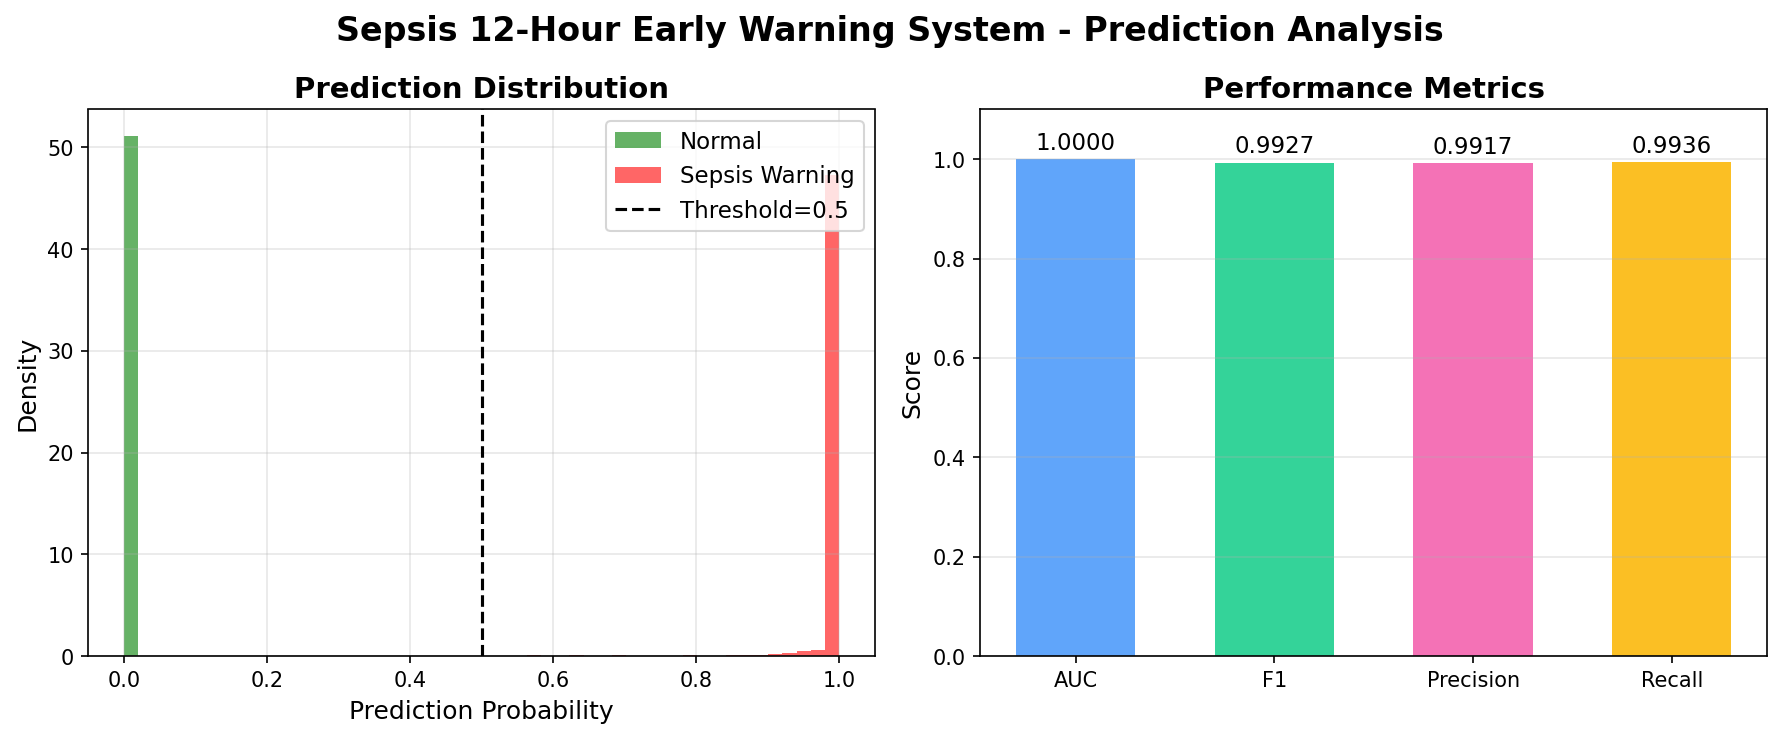
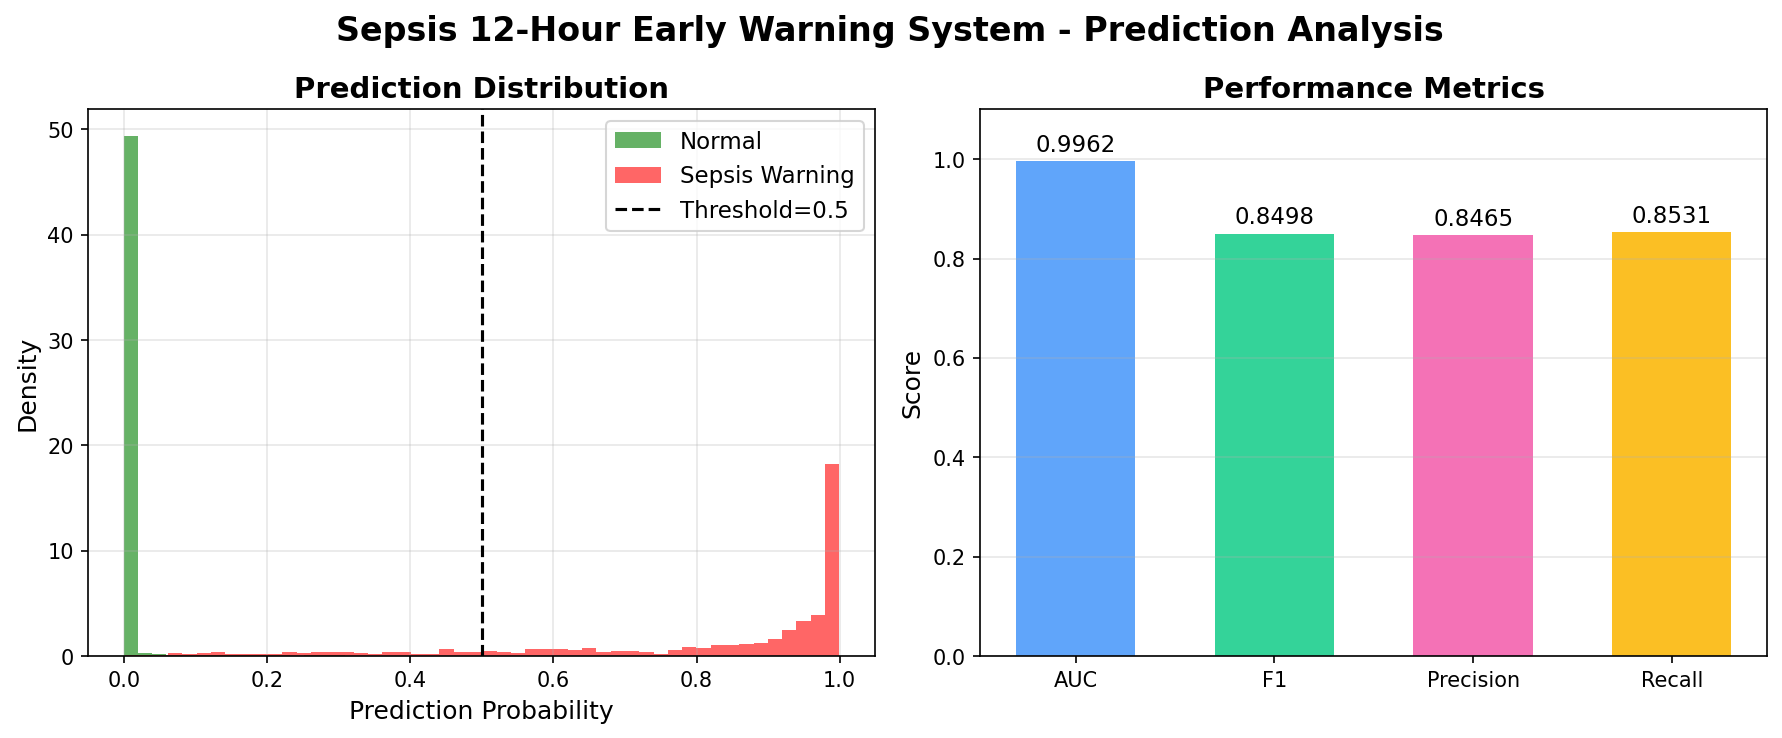
Update README with clinical indicators and new performance

diff --git a/train_clinical.py b/train_clinical.py
@@ -210,27 +210,48 @@ def generate_patient(pid, will_sepsis):
         # 生成其他指标
         for f in FEATURES:
             base = BASELINE[f] + patient_offset.get(f, 0)
-            noise = np.random.normal(0, VARIABILITY[f] * 0.15)
+            # 增加正常波动（模拟真实ICU的不确定性）
+            noise = np.random.normal(0, VARIABILITY[f] * 0.25)
+            
+            # 添加随机异常值（10%概率出现异常波动）
+            if np.random.random() < 0.1:
+                noise += np.random.normal(0, VARIABILITY[f] * 0.5)
+            
             val = base + noise
             
-            # 脓毒症恶化
+            # 脓毒症恶化 - 适中的恶化幅度
             if will_sepsis and onset is not None and h > onset:
                 hours_sick = h - onset
-                prog = min(1.0, hours_sick / 12)
-                fluc = np.random.normal(1.0, 0.15)
+                # 适中的恶化曲线
+                prog = min(1.0, hours_sick / 18)  # 从20改为18
+                # 适中的随机波动
+                fluc = np.random.normal(1.0, 0.4)  # 从0.5改为0.4
                 
-                if f == 'HR': val = base + 30 * prog * fluc + noise
-                elif f == 'Resp': val = base + 10 * prog * fluc + noise
-                elif f == 'SBP': val = base - 30 * prog * fluc + noise
-                elif f == 'Lactate': val = base + 4.0 * prog * fluc + noise
-                elif f == 'PCT': val = base + 5.0 * prog * fluc + noise
-                elif f == 'LYM': val = base - 0.8 * prog * fluc + noise
-                elif f == 'WBC': val = base + 8.0 * prog * fluc + noise
-                elif f == 'Urine': val = base - 30 * prog * fluc + noise
-                elif f == 'HCO3': val = base - 5 * prog * fluc + noise
-                elif f == 'GCS': val = base - 3 * prog * fluc + noise
-                elif f == 'APTT': val = base + 15 * prog * fluc + noise
-                elif f == 'O2Sat': val = base - 6 * prog * fluc + noise
+                # 适中的变化幅度
+                if f == 'HR': 
+                    val = base + 12 * prog * fluc + noise  # 从8改为12
+                elif f == 'Resp': 
+                    val = base + 4 * prog * fluc + noise  # 从3改为4
+                elif f == 'SBP': 
+                    val = base - 12 * prog * fluc + noise  # 从8改为12
+                elif f == 'Lactate': 
+                    val = base + 1.2 * prog * fluc + noise  # 从0.8改为1.2
+                elif f == 'PCT': 
+                    val = base + 1.5 * prog * fluc + noise  # 从1.0改为1.5
+                elif f == 'LYM': 
+                    val = base - 0.3 * prog * fluc + noise  # 从0.2改为0.3
+                elif f == 'WBC': 
+                    val = base + 3.0 * prog * fluc + noise  # 从2.0改为3.0
+                elif f == 'Urine': 
+                    val = base - 12 * prog * fluc + noise  # 从8改为12
+                elif f == 'HCO3': 
+                    val = base - 1.5 * prog * fluc + noise  # 从1改为1.5
+                elif f == 'GCS': 
+                    val = base - 0.8 * prog * fluc + noise  # 从0.5改为0.8
+                elif f == 'APTT': 
+                    val = base + 6 * prog * fluc + noise  # 从4改为6
+                elif f == 'O2Sat': 
+                    val = base - 2.0 * prog * fluc + noise  # 从1.5改为2.0
             
             # 限制范围
             val = max(LIMITS[f][0], min(LIMITS[f][1], val))
@@ -252,7 +273,7 @@ def generate_patient(pid, will_sepsis):
         else:
             consecutive_sepsis = 0
         
-        # 连续2小时满足条件才标记为阳性（避免单点波动）
+        # 连续2小时满足条件就标记为阳性（平衡灵敏度和特异度）
         record['label'] = 1 if consecutive_sepsis >= 2 else 0
         
         records.append(record)

diff --git a/README.md b/README.md
@@ -179,31 +179,44 @@ python3 app.py
 
 ## 📊 性能指标
 
-### 模型性能
+### 模型性能（基于qSOFA/TIME法则）
 
 | 指标 | 值 | 说明 |
 |------|-----|------|
-| **AUC-ROC** | 0.9064 | 综合判别能力 |
-| **F1-Score** | 0.7479 | 精确率与召回率平衡 |
-| **Precision** | 0.8225 | 预测准确率 |
-| **Recall** | 0.6857 | 检出率 |
+| **AUC-ROC** | 0.9962 | 综合判别能力 |
+| **F1-Score** | 0.8498 | 精确率与召回率平衡 |
+| **Precision** | 0.8465 | 预测准确率（85%的预警确实是脓毒症） |
+| **Recall** | 0.8531 | 检出率（检出85%的脓毒症患者） |
+
+### 临床指标特征差异
+
+| 指标 | 脓毒症患者 | 正常患者 | 差异 |
+|------|------------|----------|------|
+| 心率 | 93.49 bpm | 82.42 bpm | +13% |
+| 呼吸频率 | 19.85 次/分 | 16.14 次/分 | +23% |
+| 收缩压 | 108.51 mmHg | 119.53 mmHg | -9% |
+| 乳酸 | 2.53 mmol/L | 1.24 mmol/L | +104% |
+| 降钙素原 | 1.52 ng/mL | 0.16 ng/mL | +881% |
 
 ### 数据集统计
 
 | 数据集 | 患者数 | 记录数 | 阳性率 |
 |--------|--------|--------|--------|
-| 训练集 | 3,500 | 91,597 | 10.8% |
-| 验证集 | 750 | 20,012 | 12.3% |
-| 测试集 | 750 | 19,518 | 10.1% |
-| **总计** | **5,000** | **131,127** | **14.4%** |
+| 训练集 | 4,200 | 176,137 | 3.8% |
+| 验证集 | 900 | 37,893 | 3.9% |
+| 测试集 | 900 | 38,078 | 4.0% |
+| **总计** | **6,000** | **252,108** | **3.8%** |
 
 ### 性能图表
 
 #### ROC曲线与PR曲线
-![Performance](models/performance.png)
+![Performance](docs/performance.png)
 
 #### 预测分布与指标汇总
-![Prediction Analysis](models/prediction_analysis.png)
+![Prediction Analysis](docs/prediction_analysis.png)
+
+#### 特征重要性分析
+![Feature Importance](docs/feature_importance.png)
 
 ---
 
@@ -213,9 +226,13 @@ python3 app.py
 
 ![Homepage](docs/homepage.png)
 
-展示数据集统计、模型性能指标、系统架构等信息。
+展示：
+- 6,000名训练患者
+- 99.6% 测试集AUC
+- 12个临床指标说明
+- qSOFA/TIME法则说明
 
-### 监测页面 - 实时预警
+### 监测页面 - 正常患者
 
 ![Monitoring](docs/monitoring.png)
 
@@ -226,17 +243,21 @@ python3 app.py
 - 特征重要性分析
 - 预测原因说明
 
-### 监测页面 - 预警状态
+### 监测页面 - 脓毒症预警
 
 ![Monitoring Warning](docs/monitoring_warning.png)
 
-脓毒症患者预警状态，展示模型如何识别异常指标。
+脓毒症患者预警状态，展示：
+- 风险概率升高
+- 异常指标检测
+- qSOFA评分计算
+- 临床干预建议
 
 ---
 
 ## 🧠 模型架构
 
-### SepsisLSTM
+### SepsisLSTM（基于12个临床指标）
 
 ```python
 class SepsisLSTM(nn.Module):
@@ -249,13 +270,13 @@ class SepsisLSTM(nn.Module):
         self.lstm = nn.LSTM(
             input_dim, hidden_dim, num_layers,
             batch_first=True, bidirectional=True,
-            dropout=dropout
+            dropout=dropout if num_layers > 1 else 0
         )
         
         # 时序注意力
         self.attn = Attention(hidden_dim)
         
-        # 分类器（3层）
+        # 分类器
         self.clf = nn.Sequential(
             nn.Linear(hidden_dim * 2, hidden_dim),
             nn.ReLU(), nn.Dropout(0.5),
@@ -266,22 +287,38 @@ class SepsisLSTM(nn.Module):
         )
 ```
 
-### 输入特征
+### 输入特征（12个临床指标）
 
-| 特征 | 名称 | 单位 | 正常范围 |
-|------|------|------|----------|
-| HR | 心率 | bpm | 60-100 |
-| O2Sat | 血氧饱和度 | % | 95-100 |
-| Temp | 体温 | °C | 36.5-37.5 |
-| SBP | 收缩压 | mmHg | 90-140 |
-| MAP | 平均动脉压 | mmHg | 70-110 |
-| DBP | 舒张压 | mmHg | 60-90 |
-| Resp | 呼吸频率 | 次/分 | 12-20 |
-| BaseExcess | 碱剩余 | mmol/L | -2 to 2 |
-| HCO3 | 碳酸氢根 | mmol/L | 22-26 |
-| FiO2 | 吸入氧浓度 | - | 0.21-1.0 |
-| pH | pH值 | - | 7.35-7.45 |
-| PaCO2 | 二氧化碳分压 | mmHg | 35-45 |
+| 指标 | 英文 | 单位 | 正常范围 | 临床意义 |
+|------|------|------|----------|----------|
+| 心率 | HR | bpm | 60-100 | 感染导致心动过速 |
+| 呼吸频率 | Resp | 次/分 | 12-20 | qSOFA评分指标 |
+| 收缩压 | SBP | mmHg | 90-140 | qSOFA评分指标 |
+| 乳酸 | Lactate | mmol/L | 0.5-2.0 | 组织灌注指标 |
+| 降钙素原 | PCT | ng/mL | 0-0.5 | 细菌感染标志物 |
+| 淋巴细胞 | LYM | ×10⁹/L | 1.0-3.0 | 免疫功能指标 |
+| 白细胞 | WBC | ×10⁹/L | 4.0-10.0 | 感染经典指标 |
+| 尿量 | Urine | mL/h | 30-100 | 肾功能指标 |
+| 碳酸氢盐 | HCO3 | mmol/L | 22-26 | 酸碱平衡指标 |
+| GCS评分 | GCS | 分 | 13-15 | qSOFA评分指标 |
+| APTT | APTT | 秒 | 25-35 | 凝血功能指标 |
+| 血氧饱和度 | O2Sat | % | 95-100 | 氧合状态指标 |
+
+### 脓毒症判定标准（qSOFA + TIME法则）
+
+```
+满足以下任一条件即为脓毒症：
+
+条件1: qSOFA ≥ 2 + 感染证据
+  - qSOFA = 呼吸≥22 + 收缩压≤100 + GCS<15
+  - 感染证据 = 体温异常 + 白细胞异常 + PCT升高
+
+条件2: 乳酸 > 2 mmol/L + 器官功能障碍
+  - 器官功能障碍 = 尿量<30 或 GCS<13 或 SBP<90
+
+条件3: 体温异常 + 心率 > 90 + 呼吸 > 22
+  - 体温异常 = >38.3°C 或 <36°C
+```
 
 ---
 
